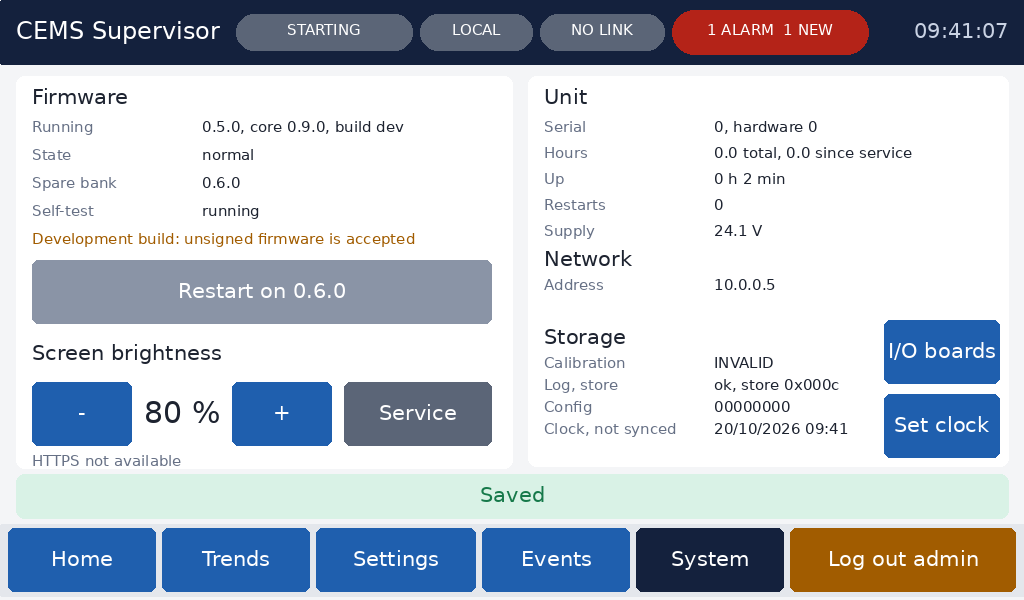
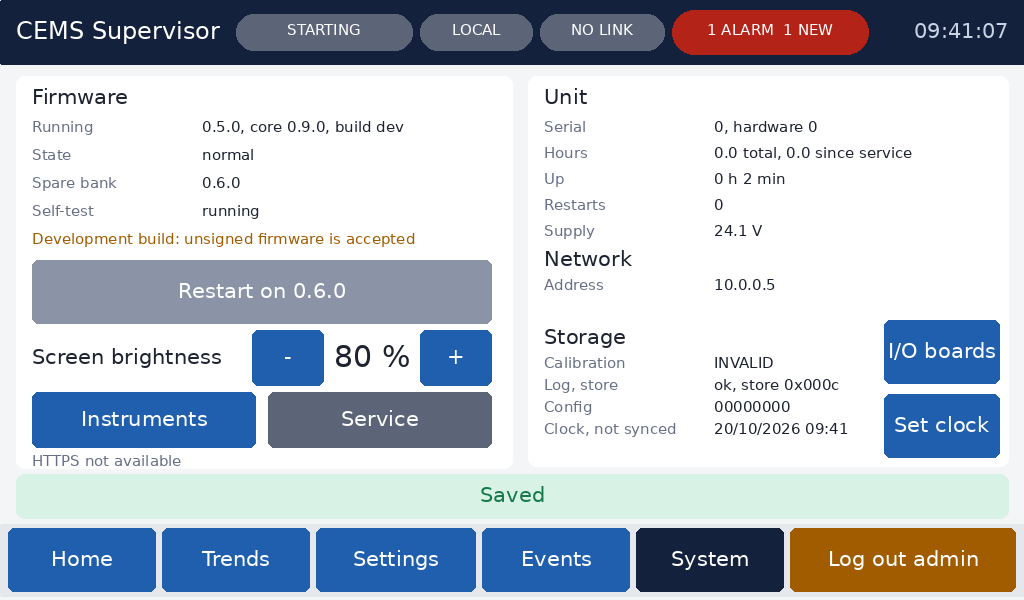
HMI: System > Instruments, the third-party analysers (read only)
Left: each enabled instrument with its address and state; tap one.
Right: polls good/failed, reply time, last error, and each point's
value, unit (UTF-16 to UTF-8) and quality word, paged. System gets
an Instruments button beside Service; brightness moves up a row.
Operator manual 8c, t_inst_screen, screenshots. Merges main (#16).

Claude-Session: https://claude.ai/code/session_01AbDXgecyAmn6R8hhL7qjD2

Changed region(s): [[0.0312, 0.54, 0.5, 0.75]]

diff --git a/platform/ui/ui.c b/platform/ui/ui.c
@@ -28,6 +28,7 @@
 #include "plat_service.h"
 #include "plat_selftest.h"
 #include "plat_boardtest.h"
+#include "inst.h"
 #include "plat_version.h"
 
 /* ---------------- layout and colours (1024 x 600) ---------------- */
@@ -78,6 +79,7 @@ enum {
     T_TR_PEN0 = 196,        /* .. 199: trend pens */
     T_TR_ADD = 206, T_TR_DEL, T_TR_CLR, T_TRENDS,       /* trends */
     T_SVC = 226, T_SVC_BT, T_SVC_LOG,                  /* service screen, board test, add a service log entry */
+    T_INST = 229,           /* System: open the instruments page */
     T_AL_ROW0 = 220,        /* .. T_AL_ROW0 + ROWS - 1: tap an alarm for what to check */
     T_DISP = 230, T_DT_COLOURS, T_DT_TOUCH, T_DT_NEXT, T_DT_CLEAR, T_DT_DONE,  /* display test (bench bring-up) */
     T_FORCE = 240, T_FC_CLEAR_ALL,      /* Modbus force (commissioning) */
@@ -87,6 +89,7 @@ enum {
 typedef enum { KB_NUM, KB_IP, KB_TEXT, KB_BOOL } kb_t;
 typedef enum { ACT_NONE, ACT_POST, ACT_BLOB, ACT_FW, ACT_FW_LOCAL, ACT_CAL, ACT_FORCE, ACT_ELEM, ACT_BT } act_t;
 #define TR_PENS 4
+#define INST_PT_ROWS 9u          /* instruments page: point rows shown */
 #define TR_N    150              /* trend samples kept: 10 minutes at TR_MS */
 #define TR_MS   4000u
 
@@ -167,6 +170,8 @@ static struct {
     unsigned tr_first;
     /* service log entry from the touchscreen: 1 = typing who, 2 = typing the work */
     uint8_t  svc_step;
+    uint8_t  inst_sel;             /* instruments page: the instrument shown (0..INST_MAX-1), its first point row */
+    unsigned inst_first;
     char     svc_tech[16];
     /* record editor */
     const ui_record_t *rec;
@@ -908,6 +913,12 @@ static void tap(uint8_t t, uint32_t now) {
             goto_scr(UI_TRENDS);
         }
         break;
+    case UI_INST:
+        if (t == T_BACK) goto_scr(UI_SYSTEM);
+        else if (t >= T_ROW0 && t < T_ROW0 + INST_MAX) { U.inst_sel = (uint8_t)(t - T_ROW0); U.inst_first = 0; U.dirty = true; }
+        else if (t == T_PGUP) { U.inst_first = U.inst_first >= INST_PT_ROWS ? U.inst_first - INST_PT_ROWS : 0; U.dirty = true; }
+        else if (t == T_PGDN) { U.inst_first += INST_PT_ROWS; U.dirty = true; }
+        break;
     case UI_SERVICE:
         if (t == T_BACK) goto_scr(UI_SYSTEM);
         else if (t == T_DISP) { U.dt_mode = 0; U.dt_t0 = 0; U.dt_hz10 = U.dt_mhz10 = 0; goto_scr(UI_DISPLAY); }
@@ -939,6 +950,7 @@ static void tap(uint8_t t, uint32_t now) {
             ask(ACT_FW, m);
         } else if (t == T_IOB) goto_scr(UI_IOB);
         else if (t == T_SVC) goto_scr(UI_SERVICE);
+        else if (t == T_INST) { U.inst_first = 0; goto_scr(UI_INST); }
         else if (t == T_CAL) { unsigned a; if (plat_cal_active(&a)) U.cal_ch = (uint8_t)a; goto_scr(UI_CAL); }
         else if (t == T_BRIGHT_DN) { U.bright = U.bright > 20 ? (uint8_t)(U.bright - 20) : 10; U.dirty = true; }
         else if (t == T_BRIGHT_UP) { U.bright = U.bright < 80 ? (uint8_t)(U.bright + 20) : 100; U.dirty = true; }
@@ -1384,12 +1396,13 @@ static void draw_system(uint32_t now) {
         button(T_FW_ACT, 32, BODY_Y + 184, 460, 64, b, C_WARN, U.level >= PLAT_LVL_FACTORY);
     }
     /* brightness */
-    color(C_INK); text(32, BODY_Y + 266, F_TEXT, 0, "Screen brightness");
+    color(C_INK); text(32, BODY_Y + 282, F_TEXT, OPT_CENTERY, "Screen brightness");
     snprintf(b, sizeof b, "%u %%", U.bright);
-    button(T_BRIGHT_DN, 32, BODY_Y + 306, 100, 64, "-", C_ACCENT, true);
-    color(C_INK); text(182, BODY_Y + 338, F_BIG, OPT_CENTER, b);
-    button(T_BRIGHT_UP, 232, BODY_Y + 306, 100, 64, "+", C_ACCENT, true);
-    button(T_SVC, 344, BODY_Y + 306, 148, 64, "Service", 0x5B6577u, true);   /* self-test, board test, service log, display test */
+    button(T_BRIGHT_DN, 252, BODY_Y + 254, 72, 56, "-", C_ACCENT, true);
+    color(C_INK); text(372, BODY_Y + 282, F_BIG, OPT_CENTER, b);
+    button(T_BRIGHT_UP, 420, BODY_Y + 254, 72, 56, "+", C_ACCENT, true);
+    button(T_INST, 32, BODY_Y + 316, 224, 56, "Instruments", C_ACCENT, true);   /* third-party analysers (inst.h) */
+    button(T_SVC, 268, BODY_Y + 316, 224, 56, "Service", 0x5B6577u, true);   /* self-test, board test, service log, display test */
     /* HTTPS fingerprint: a technician compares it with the browser's to know it reached this unit */
     const char *fp = tls_fingerprint();
     color(C_MUTE); text(32, BODY_Y + 378, F_SMALL, 0, fp[0] ? "HTTPS certificate fingerprint (SHA-256)" : "HTTPS not available");
@@ -2087,6 +2100,82 @@ static void draw_tr_pick(void) {
     if (!n) { color(C_MUTE); text(456, BODY_Y + 200, F_TEXT, OPT_CENTER, "No values to trend"); }
     button(T_PGUP, 908, BODY_Y, 100, 120, "Up", C_ACCENT, U.tr_first > 0);
     button(T_PGDN, 908, BODY_Y + 136, 100, 120, "Down", C_ACCENT, U.tr_first + ROWS < n);
+    button(T_BACK, 908, BODY_Y + 272, 100, 120, "Back", 0x5B6577u, true);
+}
+
+/* ---------------- instruments (role 2: the core polls analysers on the I/O network), read only ---------------- */
+static uint32_t inst_colour(uint8_t s) {
+    return s == INST_S_OK ? C_OK : s == INST_S_LOST || s == INST_S_BAD_SETTINGS ? C_BAD : s == INST_S_FAILING ? C_WARN : C_GREY;
+}
+static void inst_label(unsigned k, char *b, size_t cap) {
+    if (inst_tags.name[k][0]) snprintf(b, cap, "%.23s", inst_tags.name[k]); else snprintf(b, cap, "Instrument %u", k + 1u);
+}
+
+static void draw_inst(void) {
+    char b[112], l[32];
+    unsigned shown = 0;
+    box(16, BODY_Y, 384, 392, C_CARD, 8);
+    box(412, BODY_Y, 484, 392, C_CARD, 8);
+    if (U.inst_sel >= INST_MAX || !inst_tags.enable[U.inst_sel])
+        for (unsigned k = 0; k < INST_MAX; ++k) if (inst_tags.enable[k]) { U.inst_sel = (uint8_t)k; break; }
+    for (unsigned k = 0; k < INST_MAX; ++k) {          /* the instruments: enabled ones only */
+        if (!inst_tags.enable[k]) continue;
+        int16_t y = (int16_t)(BODY_Y + 4 + shown * 48);
+        uint8_t tg = (uint8_t)(T_ROW0 + k);
+        eve_tag(E, tg);
+        box(20, y, 376, 46, U.pressed == tg ? 0xDCE6F5u : k == U.inst_sel ? 0xEEF3FAu : C_CARD, 4);
+        if (shown) { color(C_LINE); eve_line(E, 24, y, 392, y, 1); }
+        inst_label(k, l, sizeof l);
+        color(C_INK); text(32, (int16_t)(y + 14), F_SMALL, OPT_CENTERY, l);
+        color(inst_colour(inst_tags.state[k])); text(388, (int16_t)(y + 14), F_SMALL, OPT_CENTERY | OPT_RIGHTX, inst_state_name(inst_tags.state[k]));
+        char ip[20]; fmt_ip(ip, sizeof ip, inst_tags.ip[k]);
+        snprintf(b, sizeof b, "%s:%u, unit %u", inst_tags.ip[k] ? ip : "no address", (unsigned)inst_tags.port[k], (unsigned)inst_tags.unit[k]);
+        color(C_MUTE); text(32, (int16_t)(y + 34), F_SMALL, OPT_CENTERY, b);
+        eve_tag(E, 0);
+        ++shown;
+    }
+    if (!shown) {
+        color(C_MUTE);
+        text(32, BODY_Y + 24, F_SMALL, 0, "No instruments are set up.");
+        text(32, BODY_Y + 48, F_SMALL, 0, "Set them up on the web page, Instruments.");
+        button(T_BACK, 908, BODY_Y + 272, 100, 120, "Back", 0x5B6577u, true);
+        return;
+    }
+    /* the selected instrument: counters, then its points */
+    unsigned k = U.inst_sel;
+    inst_label(k, l, sizeof l);
+    color(C_INK); text(428, BODY_Y + 20, F_TEXT, OPT_CENTERY, l);
+    color(inst_colour(inst_tags.state[k])); text(880, BODY_Y + 20, F_SMALL, OPT_CENTERY | OPT_RIGHTX, inst_state_name(inst_tags.state[k]));
+    snprintf(b, sizeof b, "%lu polls good, %lu failed, reply %u ms", (unsigned long)inst_tags.good[k], (unsigned long)inst_tags.errors[k],
+             (unsigned)inst_tags.resp_ms[k]);
+    color(C_MUTE); text(428, BODY_Y + 46, F_SMALL, OPT_CENTERY, b);
+    if (inst_tags.last_err[k]) {
+        if (inst_tags.last_err[k] == INST_E_EXCEPTION) snprintf(b, sizeof b, "Last error: exception %02X", (unsigned)inst_tags.last_exc[k]);
+        else snprintf(b, sizeof b, "Last error: %s", inst_err_name(inst_tags.last_err[k]));
+        color(C_WARN); text(428, BODY_Y + 68, F_SMALL, OPT_CENTERY, b);
+    }
+    unsigned np = 0, row = 0;
+    for (unsigned p = 0; p < INST_POINTS; ++p) {
+        if (inst_pt.inst[p] != k + 1u) continue;
+        if (np++ < U.inst_first || row >= INST_PT_ROWS) continue;
+        int16_t y = (int16_t)(BODY_Y + 92 + row * 33);
+        if (row) { color(C_LINE); eve_line(E, 424, (int16_t)(y - 4), 884, (int16_t)(y - 4), 1); }
+        float v; uint8_t q;
+        if (!inst_point(p, &v, &q)) { v = NAN; q = PLAT_Q_UNAVAILABLE; }
+        char nm[32], un[24], vs[24];
+        if (inst_pt.name[p][0]) snprintf(nm, sizeof nm, "%.22s", inst_pt.name[p]); else snprintf(nm, sizeof nm, "Point %u", p + 1u);
+        if (utf16le_to_utf8(inst_pt.unit[p], INST_UNIT_LEN / 2u, un, sizeof un) < 0) un[0] = 0;
+        if (q == PLAT_Q_UNAVAILABLE || isnan(v)) snprintf(vs, sizeof vs, "----"); else fmt_float(vs, sizeof vs, (double)v);
+        snprintf(b, sizeof b, "%s %s", vs, un);
+        color(C_MUTE); text(428, (int16_t)(y + 12), F_SMALL, OPT_CENTERY, nm);
+        color(q == PLAT_Q_VALID ? C_INK : C_GREY); text(730, (int16_t)(y + 12), F_SMALL, OPT_CENTERY | OPT_RIGHTX, b);
+        color(q_color(q)); text(880, (int16_t)(y + 12), F_SMALL, OPT_CENTERY | OPT_RIGHTX, q == PLAT_Q_VALID ? "ok" : plat_quality_name(q));
+        ++row;
+    }
+    if (!np) { color(C_MUTE); text(428, BODY_Y + 104, F_SMALL, 0, "No points read from this instrument"); }
+    if (U.inst_first >= np && np) U.inst_first = (np - 1u) / INST_PT_ROWS * INST_PT_ROWS;
+    button(T_PGUP, 908, BODY_Y, 100, 120, "Up", C_ACCENT, U.inst_first > 0);
+    button(T_PGDN, 908, BODY_Y + 136, 100, 120, "Down", C_ACCENT, U.inst_first + INST_PT_ROWS < np);
     button(T_BACK, 908, BODY_Y + 272, 100, 120, "Back", 0x5B6577u, true);
 }
 
@@ -2904,6 +2993,7 @@ void ui_draw(eve_t *e, uint32_t now) {
     case UI_TRENDS: draw_trends(); break;
     case UI_TR_PICK: draw_tr_pick(); break;
     case UI_SERVICE: draw_service(); break;
+    case UI_INST: draw_inst(); break;
     case UI_CLOCK: draw_clock(); break;
     case UI_APP:   draw_app(); break;
     case UI_REC:   draw_rec(); break;

diff --git a/tests/test_ui.c b/tests/test_ui.c
@@ -32,6 +32,7 @@ extern uint8_t plat_alarm_tier_route[AL_TIERS], plat_alarm_prio[ALARM_ID_MAX + 1
 #include "plat_power.h"
 #include "plat_cal.h"
 #include "plat_service.h"
+#include "inst.h"
 #include "plat_version.h"
 
 static eve_sim_t sim;
@@ -929,6 +930,43 @@ static void t_service_screen(void) {
     CHECK(tap("Log out factory"));
 }
 
+/* System > Instruments: the analysers the core polls on the I/O network, read only */
+static void t_inst_screen(void) {
+    setup();
+    inst_reset();
+    memset(&inst_tags, 0, sizeof inst_tags); memset(&inst_pt, 0, sizeof inst_pt);
+    inst_init(NULL);
+    CHECK(tap("System")); CHECK(tap("Instruments")); CHECK_EQ(ui_screen(), UI_INST);
+    CHECK(shows("No instruments are set up."));
+    inst_tags.enable[0] = true; strcpy(inst_tags.name[0], "O2 analyser");
+    inst_tags.ip[0] = 0xC0A80114u; inst_tags.port[0] = 502; inst_tags.unit[0] = 1; inst_tags.period_ms[0] = 1000;
+    inst_tags.timeout_ms[0] = 1000; inst_tags.max_regs[0] = 64;
+    inst_tags.enable[2] = true; inst_tags.ip[2] = 0xC0A80115u; inst_tags.port[2] = 502; inst_tags.unit[2] = 7;
+    inst_pt.inst[0] = 1; strcpy(inst_pt.name[0], "O2"); inst_pt.unit[0][0] = '%';
+    inst_pt.inst[1] = 1; strcpy(inst_pt.name[1], "CO");
+    { const uint8_t u[] = { 'm', 0, 'g', 0, '/', 0, 'N', 0, 'm', 0, 0xB3, 0 }; memcpy(inst_pt.unit[1], u, sizeof u); }   /* mg/Nm³ */
+    inst_pt.inst[2] = 3; strcpy(inst_pt.name[2], "Flow");
+    inst_scan(now);
+    inst_pt.value[0] = 20.9f; inst_pt.q[0] = PLAT_Q_VALID;            /* as if read */
+    inst_pt.value[1] = 41.5f; inst_pt.q[1] = PLAT_Q_STALE;
+    inst_tags.state[0] = INST_S_OK; inst_tags.good[0] = 120; inst_tags.errors[0] = 2; inst_tags.resp_ms[0] = 35;
+    inst_tags.last_err[0] = INST_E_TIMEOUT;
+    frame();
+    CHECK(shows("O2 analyser")); CHECK(shows("Instrument 3"));          /* no name: by number */
+    CHECK(shows("192.168.1.20:502, unit 1"));
+    CHECK(shows("120 polls good, 2 failed, reply 35 ms"));
+    CHECK(shows("Last error: no reply"));
+    CHECK(shows("20.9 %")); CHECK(shows("41.5 mg/Nm")); CHECK(shows("stale"));
+    CHECK(!shows("Flow"));                                             /* instrument 3's point */
+    dump("instruments");
+    CHECK(tap("Instrument 3"));
+    CHECK(shows("Flow")); CHECK(!shows("41.5"));
+    CHECK(shows("----"));
+    CHECK(tap("Back")); CHECK_EQ(ui_screen(), UI_SYSTEM);
+    inst_reset();
+    memset(&inst_tags, 0, sizeof inst_tags); memset(&inst_pt, 0, sizeof inst_pt);
+}
+
 void test_ui_all(void) {
     bsp_host_reset();
     bsp_host.ms = 100000;
@@ -943,4 +981,5 @@ void test_ui_all(void) {
     RUN(t_dia_screen);
     RUN(t_trends_screen);
     RUN(t_service_screen);
+    RUN(t_inst_screen);
 }

diff --git a/platform/include/ui.h b/platform/include/ui.h
@@ -45,7 +45,8 @@ enum { UI_HOME = 0, UI_PARAMS, UI_EDIT, UI_LOGIN, UI_EVENTS, UI_SYSTEM, UI_ALARM
        UI_TIERS,        /* alarm priority tiers: names, actions, counts (plat_alarm.h) */
        UI_TRENDS,       /* live trends: up to 4 values over the last 10 minutes */
        UI_TR_PICK,      /* choose a value to trend */
-       UI_SERVICE };    /* service: self-test, board test, test record, service log, display test */
+       UI_SERVICE,      /* service: self-test, board test, test record, service log, display test */
+       UI_INST };       /* third-party instruments on the I/O network: state, counters, values (inst.h), read only */
 
 void    ui_init(const ui_cfg_t *cfg, uint32_t now_ms);
 void    ui_input(uint8_t tag, uint32_t now_ms);     /* the tag under the finger now (0 = none); every 10..20 ms */

diff --git a/docs/OPERATOR_MANUAL.md b/docs/OPERATOR_MANUAL.md
@@ -158,6 +158,7 @@ instead of guessing. **Previous** and **Next** move between slots.
   - **Set clock** (admin). Only needed when there is no time server. "Clock, not synced" means nothing outside has confirmed the time;
   - **I/O boards**: each board's link, inputs, outputs, temperatures and faults, in words;
   - screen brightness;
+  - **Instruments** (see 8c);
   - **Service** (see 9).
 
   The HTTPS fingerprint at the bottom lets a technician check that their browser has reached this unit.
@@ -187,6 +188,13 @@ including test bits.
 - **Remove** takes the selected value off. **Restart** clears the lines and starts again.
 - A gap in a line means the value was not valid then: stale, unavailable, in maintenance and so on.
 - Trends keep recording while you use other screens. They are not saved: a restart clears them. For longer periods, download the data log from the web page.
+
+## 8c. Instruments (System, then Instruments)
+
+Third-party instruments, such as gas analysers and flow meters, that the instrument reads over Modbus TCP on its I/O network. The page only shows them. They are set up on the web page (Instruments).
+
+- **Left:** each instrument that is switched on, with its address and its state: ok, connecting, failing, lost (several polls in a row failed; it keeps trying), bad settings, or off. Tap one to show it on the right.
+- **Right:** how many polls worked and failed, how long the last reply took, the last error, and each value read from it with its unit and quality word. A greyed value is not valid: the word beside it says why (stale, unavailable, out of range, fault...). **Up** and **Down** page through the values.
 
 ## 9. Service (System, then Service)
 
